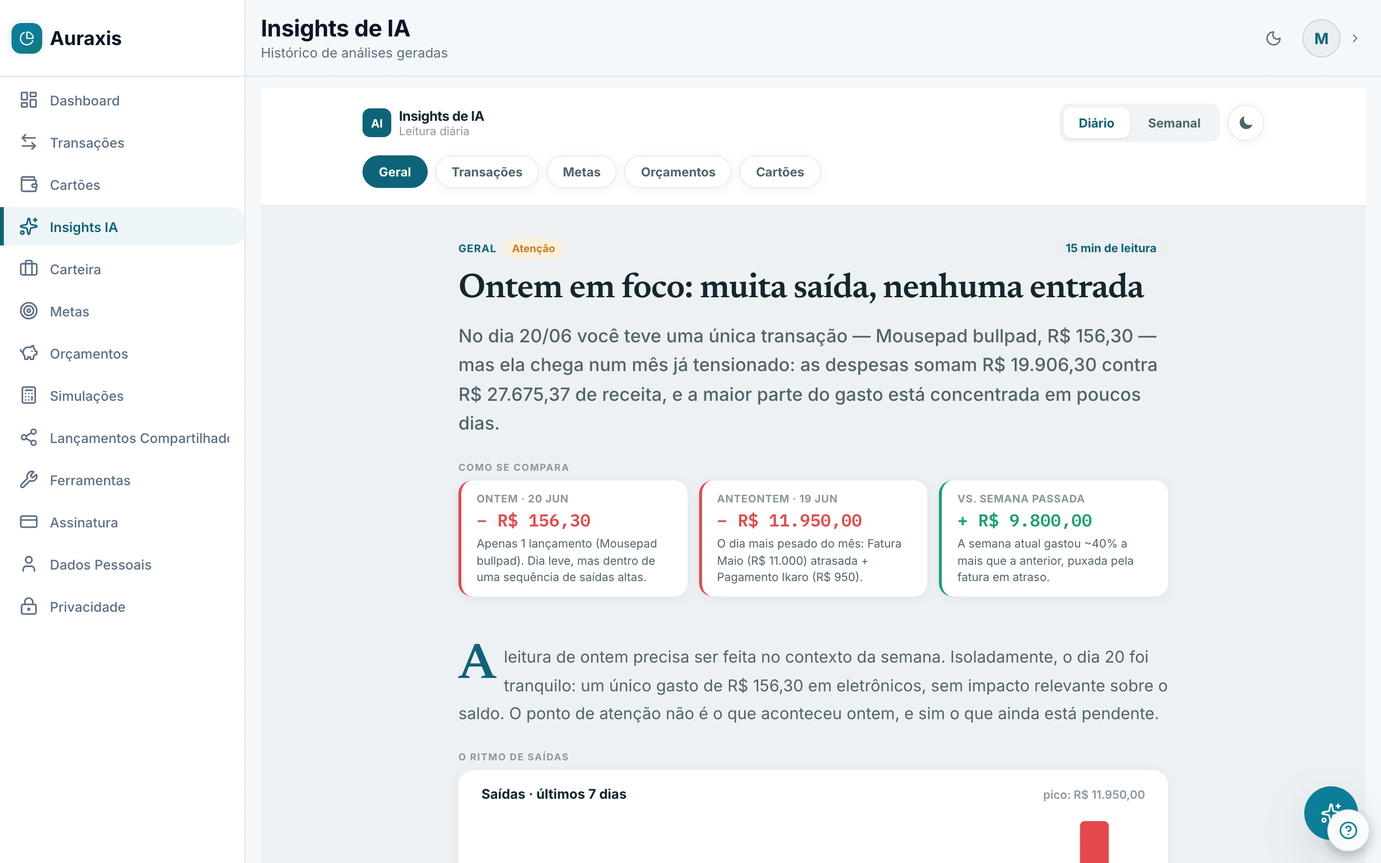
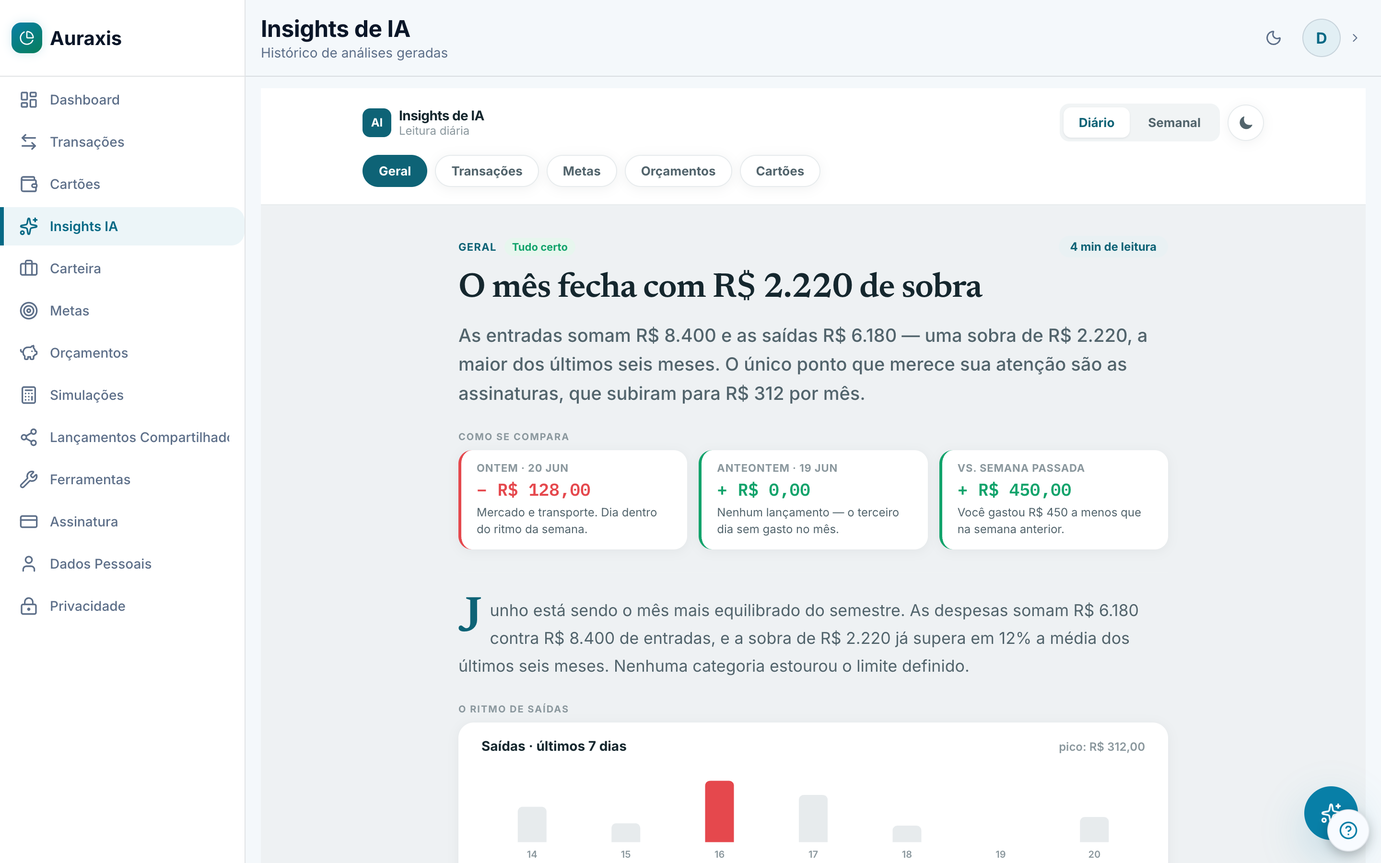
fix(landing): trocar a leitura de IA da página pública por dados fictícios
O screenshot de Insights na landing era print da conta pessoal do PO, e o
mock que alimenta a tela — versionado num repositório PÚBLICO — carregava
os mesmos dados: nome de uma pessoa, nome do pet, o salário real
(R$ 27.675,37), uma fatura em atraso de R$ 11.000 e uma marca de terceiro.

Reescreve o FLUIDA_MOCK_SOURCE com uma persona demo (salário de R$ 8.400,
mês fechando no azul, assinaturas como ponto de atenção) e regenera
insights-light.png a partir da tela real, mesmo enquadramento e mesmas
dimensões (2880x1800, 1440x900 @2x).

De quebra a imagem passa a vender melhor: a leitura sai de "Atenção /
muita saída, nenhuma entrada" para "Tudo certo / o mês fecha com R$ 2.220
de sobra", que é o que a única imagem da IA na página deveria mostrar.

Varredura confirma que não sobrou dado pessoal em app/ nem public/:
Ikaro, Caramelo, "Salário gringo", Mousepad/bullpad, "Fatura Maio",
27.675 e 19.906 → zero ocorrências. dashboard-light, goals-light e og
já usavam dados demo.

Closes #1188

diff --git a/app/features/ai-insights/fluida/model/insight-fluida-mock.ts b/app/features/ai-insights/fluida/model/insight-fluida-mock.ts
@@ -1,7 +1,7 @@
 import { formatFluidaCurrency, type FluidaInsightSource } from "./insight-fluida";
 
 /**
- * Mock source for the Fluida reading, content-anchored to June/2026 data.
+ * Mock source for the Fluida reading.
  *
  * Shape mirrors the additive `/ai/insights` response (`paragraphs` / `retro` /
  * `series` / `highlights`) and the mobile `InsightFluidaVM`. It exists only so
@@ -9,6 +9,14 @@ import { formatFluidaCurrency, type FluidaInsightSource } from "./insight-fluida
  * (auraxis-api PR #1502) is not yet deployed. Once the DTO ships, a mapper in
  * `api/` produces the same {@link FluidaInsightSource} from the real payload and
  * this constant is dropped.
+ *
+ * The content is a **fictional demo persona** — a single salary of R$ 8.400, a
+ * month that closes in the black, and one actionable finding (subscriptions
+ * creeping up). It must stay that way: this mock also feeds the product
+ * screenshots on the public landing, and a previous version carried real
+ * account data — a person's name, a pet's name, an actual salary and an
+ * overdue invoice — into a public repository and onto auraxis.com.br (#1188).
+ * Never paste a real reading here.
  */
 export const FLUIDA_MOCK_SOURCE: FluidaInsightSource = {
   meta: {
@@ -20,96 +28,94 @@ export const FLUIDA_MOCK_SOURCE: FluidaInsightSource = {
   },
   series: {
     daily: {
-      values: [1200, 0, 250, 0, 2650, 0, 11950],
+      values: [180, 96, 312, 240, 84, 0, 128],
       labels: ["14", "15", "16", "17", "18", "19", "20"],
     },
     weekly: {
-      values: [4200, 980, 3100, 1400, 9800, 13650],
+      values: [1580, 1210, 1740, 1320, 1490, 1040],
       labels: ["S-5", "S-4", "S-3", "S-2", "S-1", "Atual"],
     },
   },
   general: {
     daily: {
-      severity: "atencao",
-      readMin: 15,
-      title: "Ontem em foco: muita saída, nenhuma entrada",
+      severity: "ok",
+      readMin: 4,
+      title: "O mês fecha com R$ 2.220 de sobra",
       summary:
-        "No dia 20/06 você teve uma única transação — Mousepad bullpad, R$ 156,30 — mas ela chega num mês já tensionado: as despesas somam R$ 19.906,30 contra R$ 27.675,37 de receita, e a maior parte do gasto está concentrada em poucos dias.",
+        "As entradas somam R$ 8.400 e as saídas R$ 6.180 — uma sobra de R$ 2.220, a maior dos últimos seis meses. O único ponto que merece sua atenção são as assinaturas, que subiram para R$ 312 por mês.",
       retro: [
         {
           when: "Ontem · 20 jun",
-          value: -156.3,
-          text: "Apenas 1 lançamento (Mousepad bullpad). Dia leve, mas dentro de uma sequência de saídas altas.",
+          value: -128,
+          text: "Mercado e transporte. Dia dentro do ritmo da semana.",
         },
         {
           when: "Anteontem · 19 jun",
-          value: -11950,
-          text: "O dia mais pesado do mês: Fatura Maio (R$ 11.000) atrasada + Pagamento Ikaro (R$ 950).",
+          value: 0,
+          text: "Nenhum lançamento — o terceiro dia sem gasto no mês.",
         },
         {
           when: "vs. semana passada",
-          value: 9800,
-          text: "A semana atual gastou ~40% a mais que a anterior, puxada pela fatura em atraso.",
+          value: 450,
+          text: "Você gastou R$ 450 a menos que na semana anterior.",
         },
       ],
       paragraphs: [
-        "A leitura de ontem precisa ser feita no contexto da semana. Isoladamente, o dia 20 foi tranquilo: um único gasto de R$ 156,30 em eletrônicos, sem impacto relevante sobre o saldo. O ponto de atenção não é o que aconteceu ontem, e sim o que ainda está pendente.",
-        "A \"Fatura Maio\", de R$ 11.000,00, segue marcada como atrasada e responde sozinha por 55% de todas as despesas do mês. Enquanto ela não for quitada, qualquer leitura de saldo positivo é otimista demais — o resultado de R$ 7.769,07 já considera essa saída como ocorrida.",
-        "Do lado das entradas, o mês depende de um único evento: o Salário gringo, de R$ 27.675,37, previsto para 30/06. Até lá, o caixa opera no vermelho corrente em vários dias. Essa dependência de uma entrada única, no fim do mês, é o fator estrutural mais importante a observar.",
+        "Junho está sendo o mês mais equilibrado do semestre. As despesas somam R$ 6.180 contra R$ 8.400 de entradas, e a sobra de R$ 2.220 já supera em 12% a média dos últimos seis meses. Nenhuma categoria estourou o limite definido.",
+        "O gasto se distribuiu bem ao longo dos dias, sem picos: o maior lançamento isolado do mês foi o aluguel, de R$ 2.400, e nenhum outro passou de R$ 400. Essa regularidade é o que torna o fluxo previsível — dá para saber quanto sobra antes do fim do mês.",
+        "O detalhe que vale corrigir está nas assinaturas. São sete serviços ativos que somam R$ 312 por mês, e três deles renovaram no mesmo dia 19. Dois têm cobrança sobreposta — mesmo tipo de serviço, contratos diferentes.",
       ],
       pullStat: {
-        label: "Peso da Fatura Maio",
-        value: "55%",
-        caption: "de todas as despesas do mês",
+        label: "Sobra do mês",
+        value: formatFluidaCurrency(2220),
+        caption: "12% acima da sua média",
       },
       alerts: [
-        { severity: "alta", text: "Fatura Maio (R$ 11.000) em atraso — concentra 55% das despesas." },
-        { severity: "media", text: "Receita do mês depende de um único crédito (30/06)." },
+        { severity: "media", text: "7 assinaturas ativas somam R$ 312/mês — duas se sobrepõem." },
+        { severity: "media", text: "Reserva de emergência cobre 2,3 meses; a meta é 6." },
       ],
       nextStep:
-        "Priorize quitar ou renegociar a Fatura Maio antes do crédito do salário; ela distorce todos os indicadores. Como hábito, distribua os vencimentos ao longo do mês para não concentrar saídas em 1–2 dias.",
+        "Revise as duas assinaturas sobrepostas e direcione a diferença para a Reserva de emergência. São R$ 84 por mês que hoje saem sem contrapartida.",
     },
     weekly: {
-      severity: "alerta",
-      readMin: 30,
-      title: "A semana de 15 a 21: o mês inteiro decidido em dois dias",
+      severity: "ok",
+      readMin: 6,
+      title: "A semana mais barata do mês, e não foi por acaso",
       summary:
-        "Em sete dias, R$ 13.650,00 saíram do caixa sem nenhuma entrada — e dois lançamentos (Fatura Maio e Parcela de financiamento) explicam quase tudo. A conta entrou em estado de alerta não por volume de transações, mas por concentração.",
+        "R$ 1.040 em sete dias, contra R$ 1.490 na semana anterior. A queda veio de mercado e delivery — as duas categorias que você passou a registrar no mesmo dia da compra.",
       retro: [
         {
           when: "Esta semana · 15–21 jun",
-          value: -13650,
-          text: "4 saídas, 0 entradas. Saldo da semana fortemente negativo.",
+          value: -1040,
+          text: "9 lançamentos, nenhum acima de R$ 320.",
         },
         {
           when: "Semana anterior · 8–14 jun",
-          value: -1450,
-          text: "Internet + Visita Pedro. Ritmo de gasto saudável.",
+          value: -1490,
+          text: "Semana do aluguel e das renovações anuais.",
         },
         {
           when: "Tendência (6 semanas)",
-          value: 13650,
-          text: "Clara escalada nas últimas duas semanas, acima da média móvel.",
+          value: -450,
+          text: "Terceira semana consecutiva abaixo da média móvel.",
         },
       ],
       paragraphs: [
-        "A retrospectiva semanal mostra um padrão que não aparece no dia a dia: a conta passa semanas em ritmo controlado e, então, concentra obrigações grandes num intervalo curto. De 15 a 21 de junho, quatro lançamentos somaram R$ 13.650,00, contra R$ 1.450,00 da semana anterior — um salto de mais de 9x.",
-        "Dois itens dominam a semana. A Parcela de financiamento (R$ 2.650, recorrente) é previsível e saudável — entra todo mês. Já a Fatura Maio (R$ 11.000, atrasada) é o evento anômalo: não é recorrente, está em atraso e desequilibra a comparação com qualquer semana típica.",
-        "Sem nenhuma receita na semana, o saldo semanal ficou em -R$ 13.650,00. Isso não significa que o mês fechará negativo — o salário de 30/06 reverte o número — mas evidencia uma fragilidade de fluxo: a conta vive de um único crédito mensal e precisa atravessar três semanas de saídas antes dele.",
-        "Olhando as últimas seis semanas, a média móvel de saídas estava perto de R$ 4.000. As duas últimas romperam esse teto com folga. Mesmo descontando a fatura atrasada como evento único, a tendência recente é de aceleração de gastos fixos.",
+        "Sete dias, R$ 1.040, nenhum lançamento acima de R$ 320. Essa é a semana mais barata de junho, e a terceira consecutiva abaixo da média móvel de R$ 1.397 — o que caracteriza tendência, não sorte.",
+        "A diferença veio de duas categorias. Mercado caiu de R$ 420 para R$ 268 e delivery, de R$ 210 para R$ 96. Ambas são justamente as que você passou a registrar no mesmo dia da compra a partir de 8 de junho: quando o gasto fica visível na hora, ele encolhe sozinho.",
+        "Moradia e transporte ficaram estáveis, como esperado de despesa fixa. Não há nada em atraso e nenhuma categoria passou de 80% do limite — o orçamento está sendo cumprido sem esforço aparente.",
+        "Se o ritmo desta semana se mantiver, julho fecha com sobra perto de R$ 2.600, o suficiente para levar a Reserva de emergência de 2,3 para 2,7 meses de despesas cobertas.",
       ],
       pullStat: {
-        label: "Saldo da semana",
-        value: formatFluidaCurrency(-13650),
-        caption: "sem nenhuma entrada registrada",
+        label: "Saídas da semana",
+        value: formatFluidaCurrency(1040),
+        caption: "R$ 450 abaixo da semana anterior",
       },
       alerts: [
-        { severity: "alta", text: "Saldo semanal -R$ 13.650,00, sem nenhuma entrada." },
-        { severity: "alta", text: "Fatura Maio em atraso há mais de 20 dias." },
-        { severity: "media", text: "Saídas das 2 últimas semanas acima da média móvel." },
+        { severity: "media", text: "Assinaturas renovam dia 19 — R$ 312 concentrados num dia só." },
       ],
       nextStep:
-        "Construa um colchão que cubra ao menos 3 semanas de despesas fixas, para deixar de depender do timing do salário. No curto prazo, trate a Fatura Maio como prioridade absoluta e evite novas parcelas até o crédito de 30/06.",
+        "Mantenha o registro no mesmo dia da compra: foi o que derrubou mercado e delivery em três semanas. Vale replicar o hábito para lazer, a categoria que ainda oscila.",
     },
   },
   themes: {
@@ -119,39 +125,39 @@ export const FLUIDA_MOCK_SOURCE: FluidaInsightSource = {
       daily: {
         severity: "ok",
         readMin: 3,
-        title: "Dia leve, mas dentro de um mês concentrado",
+        title: "Nove lançamentos, nenhuma surpresa",
         summary:
-          "Ontem houve só Mousepad bullpad (R$ 156,30, Eletrônicos). No mês, 9 despesas e 1 receita; 70% do valor está em 2 lançamentos.",
+          "Ontem entraram mercado (R$ 84,30) e transporte (R$ 43,70). No mês são 24 despesas e 2 receitas, com 61% do valor concentrado em moradia e mercado.",
         highlights: [
-          { label: "Maior gasto do mês", value: formatFluidaCurrency(11000), caption: "Fatura Maio · Cartão" },
-          { label: "Único crédito", value: formatFluidaCurrency(27675.37), caption: "Salário gringo · 30/06" },
-          { label: "Gasto de ontem", value: formatFluidaCurrency(156.3), caption: "Eletrônicos" },
+          { label: "Maior gasto do mês", value: formatFluidaCurrency(2400), caption: "Aluguel · dia 5" },
+          { label: "Entradas do mês", value: formatFluidaCurrency(8400), caption: "Salário · dia 5" },
+          { label: "Gasto de ontem", value: formatFluidaCurrency(128), caption: "Mercado e transporte" },
         ],
         paragraphs: [
-          "O lançamento de ontem é pequeno e pontual — um mousepad em Eletrônicos. Não altera categorias nem orçamento de forma material; entra como consumo discricionário isolado.",
-          "O retrato do mês, porém, é de concentração: das nove despesas, Fatura Maio (R$ 11.000) e Parcela de financiamento (R$ 2.650) somam 69% do total. As outras sete dividem o restante em valores pequenos a médios.",
+          "Os dois lançamentos de ontem são rotineiros e cabem no ritmo da semana. Nenhum deles muda a leitura de categorias nem se aproxima de algum limite.",
+          "No mês, 61% do valor está em moradia (R$ 2.400) e mercado (R$ 1.360). As outras 22 despesas se dividem em valores pequenos, o que mantém a previsibilidade alta e facilita projetar o fechamento.",
         ],
         nextStep:
-          "Categorize a Fatura Maio (hoje em \"Cartão\") para que ela não distorça a leitura de despesas correntes. Vale separar o que é dívida pontual do que é gasto do mês.",
+          "Todos os lançamentos do mês estão categorizados — é o que permite a leitura por área funcionar. Vale manter o hábito de classificar no momento do registro.",
       },
       weekly: {
-        severity: "atencao",
+        severity: "ok",
         readMin: 5,
-        title: "Onde o dinheiro foi: 4 saídas, nenhuma entrada",
+        title: "Onde o dinheiro foi: mercado, transporte e assinaturas",
         summary:
-          "Na semana, R$ 13.650,00 distribuídos entre Cartão (R$ 11.000), Financiamento (R$ 2.650) e itens menores. Categorias fixas dominam; nenhuma receita registrada.",
+          "R$ 1.040 na semana, distribuídos entre mercado (R$ 268), assinaturas (R$ 312), transporte (R$ 164) e lazer (R$ 296). Nenhum lançamento atrasado.",
         highlights: [
-          { label: "Saídas da semana", value: formatFluidaCurrency(13650), caption: "4 lançamentos" },
-          { label: "Em despesas fixas", value: "81%", caption: "Financiamento + recorrentes" },
-          { label: "Atrasados", value: "3 itens", caption: "Fatura, Condomínio, Banho" },
+          { label: "Saídas da semana", value: formatFluidaCurrency(1040), caption: "9 lançamentos" },
+          { label: "Em despesas fixas", value: "30%", caption: "assinaturas e transporte" },
+          { label: "Atrasados", value: "0 itens", caption: "tudo em dia" },
         ],
         paragraphs: [
-          "A semana é quase inteiramente composta por compromissos fixos e dívidas. A Fatura Maio responde por 81% do valor; a Parcela de financiamento, recorrente, por mais 19%. Não há gasto variável relevante — sinal de que o problema é de calendário e dívida, não de consumo impulsivo.",
-          "Três itens aparecem como atrasados no mês (Fatura Maio, Condomínio, Banho do Caramelo), somando R$ 12.700. Mesmo os dois menores, juntos, indicam que vencimentos do início do mês passaram sem baixa — vale checar se foram pagos fora do app.",
-          "Pelas descrições, parte das saídas tem natureza combinada e previsível (\"Pagamento Ikaro — 3x na semana\", \"Banho do Caramelo — 2 banhos ao mês\"). Transformar esses combinados em recorrências ajuda a antecipá-los no fluxo.",
+          "A semana tem uma composição saudável: 70% do valor em gasto variável que você controla (mercado, lazer) e 30% em fixo. Não há nada vencido, e nenhuma categoria passou do limite.",
+          "As assinaturas concentram R$ 312 num único dia, o 19. Três serviços renovaram juntos, o que cria um pico artificial na leitura diária e some no acumulado da semana.",
+          "Lazer foi a única categoria acima da média (R$ 296 contra R$ 210). Foi um único programa de fim de semana, não um padrão novo — vale acompanhar sem agir por enquanto.",
         ],
         nextStep:
-          "Revise os 3 itens em atraso e dê baixa no que já foi pago. Depois, converta os gastos \"combinados\" recorrentes (Ikaro, Caramelo) em lançamentos automáticos para o mês prever melhor o caixa.",
+          "Distribua as renovações de assinatura ao longo do mês. Concentrar R$ 312 num dia só atrapalha a leitura de fluxo e cria falsos picos.",
       },
     },
     goals: {
@@ -160,39 +166,39 @@ export const FLUIDA_MOCK_SOURCE: FluidaInsightSource = {
       daily: {
         severity: "ok",
         readMin: 3,
-        title: "Metas paradas aguardando o crédito do mês",
+        title: "Reserva avança pelo quarto mês seguido",
         summary:
-          "Nenhum aporte ontem. \"Viagem dos sonhos\" segue em 56% (R$ 8.450 / R$ 15.000) e a Reserva de emergência em 67%.",
+          "O aporte automático de R$ 600 entrou dia 5. A Reserva de emergência chegou a 72% (R$ 14.400 de R$ 20.000) e a Viagem, a 45%.",
         highlights: [
-          { label: "Viagem dos sonhos", value: "56%", caption: "R$ 8.450 / R$ 15.000" },
-          { label: "Reserva de emergência", value: "67%", caption: "R$ 13.423 / R$ 20.000" },
-          { label: "Aporte de ontem", value: formatFluidaCurrency(0), caption: "sem movimento" },
+          { label: "Reserva de emergência", value: "72%", caption: "R$ 14.400 / R$ 20.000" },
+          { label: "Viagem", value: "45%", caption: "R$ 5.400 / R$ 12.000" },
+          { label: "Aporte do mês", value: formatFluidaCurrency(600), caption: "automático · dia 5" },
         ],
         paragraphs: [
-          "As metas não tiveram movimentação ontem — comportamento esperado num mês em que o caixa está comprometido com a fatura em atraso. O progresso permanece o mesmo do dia anterior.",
-          "A Reserva de emergência, em 67%, é o ponto positivo: cobre boa parte de um mês de despesas. Avançá-la antes da Viagem reduz a dependência do salário único que aparece na leitura geral.",
+          "O aporte automático continua entrando sem depender de decisão mensal — é o quarto mês seguido de avanço na Reserva, que passou de 58% para 72% no período.",
+          "No ritmo atual, a Reserva chega aos R$ 20.000 em setembro. A Viagem, com aporte menor, alcança a meta em janeiro — dentro do prazo que você definiu.",
         ],
         nextStep:
-          "Assim que o salário entrar (30/06), direcione um aporte automático pequeno e fixo para a Reserva antes de qualquer gasto discricionário — ela é a meta que mais reduz seu risco hoje.",
+          "Com a sobra de R$ 2.220 deste mês, um aporte extra de R$ 400 na Reserva antecipa a conclusão para agosto sem apertar o orçamento.",
       },
       weekly: {
-        severity: "atencao",
-        readMin: 5,
-        title: "Sem aportes na semana — ritmo abaixo do necessário",
+        severity: "ok",
+        readMin: 4,
+        title: "Metas no prazo, sem esforço adicional",
         summary:
-          "Semana sem contribuições para metas. No ritmo atual, a Viagem dos sonhos atrasa frente ao prazo; a Reserva avança devagar.",
+          "As duas metas avançaram no mês via aporte automático. Nenhuma delas depende de decisão semanal, o que explica a consistência.",
         highlights: [
-          { label: "Aportes na semana", value: formatFluidaCurrency(0), caption: "0 de 2 metas" },
-          { label: "Falta p/ Viagem", value: formatFluidaCurrency(6550), caption: "44% restante" },
-          { label: "Falta p/ Reserva", value: formatFluidaCurrency(6577), caption: "33% restante" },
+          { label: "Aportes no mês", value: formatFluidaCurrency(600), caption: "2 de 2 metas" },
+          { label: "Falta p/ Reserva", value: formatFluidaCurrency(5600), caption: "28% restante" },
+          { label: "Falta p/ Viagem", value: formatFluidaCurrency(6600), caption: "55% restante" },
         ],
         paragraphs: [
-          "A semana não registrou aportes — coerente com o aperto de caixa, mas que cobra um custo: as duas metas ficaram estacionadas enquanto o tempo até os prazos diminui. Metas sem aporte semanal tendem a derrapar silenciosamente.",
-          "A Viagem dos sonhos precisa de mais R$ 6.550. Mantido um aporte mensal modesto, o prazo escorrega alguns meses. A Reserva, mais perto do alvo (faltam R$ 6.577 para R$ 20.000), responde melhor a aportes pequenos e constantes.",
-          "A recomendação estrutural da leitura geral se aplica aqui: enquanto a conta depender de um único crédito mensal, as metas competem diretamente com as dívidas pelo mesmo dinheiro — e perdem.",
+          "Metas com aporte automático avançam mesmo em meses agitados, e é exatamente o que se vê aqui: nenhuma semana sem progresso desde março.",
+          "A Reserva cobre hoje 2,3 meses de despesas. O alvo saudável para o seu padrão de gasto é 6 meses — o que significa R$ 37.000, acima da meta atual de R$ 20.000.",
+          "Vale revisar o alvo da Reserva depois que ela fechar. Uma meta batida que ficou pequena dá falsa sensação de segurança.",
         ],
         nextStep:
-          "Defina aportes automáticos por porcentagem do salário (ex.: 5% Reserva, 5% Viagem) que saem no dia do crédito. Automatizar tira a meta da disputa mês a mês e protege o progresso.",
+          "Ao concluir a Reserva em setembro, redefina o alvo para 6 meses de despesa (R$ 37.000) e mantenha o mesmo aporte automático.",
       },
     },
     budgets: {
@@ -201,80 +207,80 @@ export const FLUIDA_MOCK_SOURCE: FluidaInsightSource = {
       daily: {
         severity: "ok",
         readMin: 3,
-        title: "Eletrônicos consumiu um pouco do limite livre",
+        title: "Nenhuma categoria passou de 80% do limite",
         summary:
-          "O gasto de ontem (R$ 156,30) cai em Eletrônicos, fora dos orçamentos fixos. Categorias fixas seguem dentro do previsto.",
+          "Faltando dez dias para o fim do mês, mercado está em 68% do teto e lazer em 74%. Moradia, fixa, já consumiu 100% como esperado.",
         highlights: [
-          { label: "Despesa fixa", value: "50% do total", caption: formatFluidaCurrency(15550) },
-          { label: "Sem categoria", value: formatFluidaCurrency(15325.08), caption: "a classificar" },
-          { label: "Livre usado ontem", value: formatFluidaCurrency(156.3), caption: "Eletrônicos" },
+          { label: "Mercado", value: "68%", caption: "R$ 1.360 de R$ 2.000" },
+          { label: "Lazer", value: "74%", caption: "R$ 592 de R$ 800" },
+          { label: "Sem categoria", value: formatFluidaCurrency(0), caption: "tudo classificado" },
         ],
         paragraphs: [
-          "O lançamento de ontem é discricionário e pequeno, sem estourar nenhum teto. O alerta de orçamento não está no consumo do dia, e sim na qualidade da classificação: quase metade das saídas do mês está como \"Sem categoria\".",
-          "Com tanto valor não classificado, qualquer orçamento por categoria fica cego. Antes de apertar limites, o passo mais útil é categorizar — sobretudo a Fatura Maio, que infla \"Cartão/Sem categoria\".",
+          "O orçamento está sendo cumprido com folga em todas as categorias variáveis. Mercado, historicamente a mais difícil, está em 68% com dez dias pela frente — o ritmo atual leva a fechar em torno de R$ 1.800.",
+          "Nenhum lançamento ficou sem categoria neste mês, o que é o que permite os limites significarem alguma coisa. Orçamento por área só funciona quando cada real tem destino nomeado.",
         ],
         nextStep:
-          "Classifique os lançamentos sem categoria do mês (R$ 15.325). Só depois os limites por categoria passam a refletir a realidade e os alertas ficam confiáveis.",
+          "Lazer é a categoria com menos margem (74%). Se houver programa no fim de semana, vale antecipar a decisão de remanejar R$ 100 de mercado, que está sobrando.",
       },
       weekly: {
-        severity: "atencao",
-        readMin: 5,
-        title: "Metade do mês sem categoria — orçamento às cegas",
+        severity: "ok",
+        readMin: 4,
+        title: "Três semanas seguidas dentro do teto",
         summary:
-          "Despesa fixa concentra 50% (R$ 15.550). \"Sem categoria\" tem outros R$ 15.325, o que impede orçamentos confiáveis por área.",
+          "Todas as categorias variáveis terminaram a semana abaixo do limite proporcional. Mercado e delivery puxaram a economia.",
         highlights: [
-          { label: "Despesa fixa", value: formatFluidaCurrency(15550), caption: "50% do total" },
-          { label: "Sem categoria", value: formatFluidaCurrency(15325.08), caption: "49% do total" },
-          { label: "Demais", value: formatFluidaCurrency(175), caption: "Cartão" },
+          { label: "Dentro do limite", value: "6 de 6", caption: "categorias variáveis" },
+          { label: "Maior folga", value: formatFluidaCurrency(640), caption: "mercado" },
+          { label: "Menor folga", value: formatFluidaCurrency(208), caption: "lazer" },
         ],
         paragraphs: [
-          "A foto da semana confirma o diagnóstico do dia: o orçamento está dominado por dois blocos enormes — Despesa fixa (R$ 15.550) e Sem categoria (R$ 15.325). Juntos, são 99% das saídas, o que esvazia qualquer planejamento por categoria.",
-          "O bloco \"Sem categoria\" é grande porque a Fatura Maio entra nele. Classificar essa fatura e distribuí-la entre as áreas que a originaram (moradia, lazer, assinaturas) revelaria o consumo real por trás do número.",
-          "Despesa fixa em 50% é alto, mas não anômalo para quem tem financiamento e contas recorrentes. O problema é não enxergar a outra metade. Orçamento só vira ferramenta quando cada real tem um destino nomeado.",
+          "As seis categorias variáveis fecharam a semana dentro do limite proporcional. É a terceira semana consecutiva assim, o que sugere que os tetos definidos estão calibrados para a sua realidade — nem apertados demais, nem frouxos.",
+          "Mercado acumula a maior folga (R$ 640). Se o padrão se repetir, o teto pode ser reduzido em R$ 200 e a diferença ir para a Reserva, sem mudança de comportamento.",
+          "Lazer é a categoria com menor folga e a mais volátil do mês. Não é problema — é a natureza da categoria —, mas é a que mais se beneficia de acompanhamento semanal.",
         ],
         nextStep:
-          "Crie a regra: nenhuma transação fica sem categoria por mais de 48h. Comece pela Fatura Maio, quebrando-a nas categorias de origem — o orçamento por área passa a fazer sentido na hora.",
+          "Reduza o teto de mercado de R$ 2.000 para R$ 1.800 e realoque a diferença para a Reserva. O histórico das últimas seis semanas sustenta o corte.",
       },
     },
     credit_cards: {
       label: "Cartões",
       color: "#9B5DE5",
       daily: {
-        severity: "atencao",
+        severity: "ok",
         readMin: 3,
-        title: "A fatura em atraso domina a leitura de cartão",
+        title: "Fatura fechando 18% abaixo do mês passado",
         summary:
-          "Nenhuma compra no crédito ontem. O destaque é a Fatura Maio (R$ 11.000) ainda em aberto — pressão direta sobre limite e juros.",
+          "A fatura em aberto está em R$ 1.840, contra R$ 2.240 no mesmo ponto do mês anterior. O limite usado é de 12%, e não há parcelamento ativo.",
         highlights: [
-          { label: "Fatura em atraso", value: formatFluidaCurrency(11000), caption: "Maio · Inter" },
-          { label: "Limite usado (Inter)", value: "44%", caption: "R$ 11.000 / R$ 25.000" },
-          { label: "Compras ontem", value: formatFluidaCurrency(0), caption: "sem uso do crédito" },
+          { label: "Fatura em aberto", value: formatFluidaCurrency(1840), caption: "fecha dia 28" },
+          { label: "Limite usado", value: "12%", caption: "R$ 1.840 / R$ 15.000" },
+          { label: "Compras ontem", value: formatFluidaCurrency(84.3), caption: "mercado" },
         ],
         paragraphs: [
-          "Não houve uso de cartão ontem, o que é positivo. A leitura de cartões hoje gira inteiramente em torno de uma fatura vencida: a de maio, R$ 11.000, que mantém 44% do limite do Inter ocupado e tende a gerar encargos a cada dia de atraso.",
-          "Enquanto essa fatura não baixa, o cartão opera com folga de limite reduzida e custo crescente. É o item de maior alavancagem negativa da conta inteira neste momento.",
+          "A fatura que fecha dia 28 está em R$ 1.840 — 18% abaixo do mesmo ponto do mês passado. O uso de limite, em 12%, mantém folga confortável para qualquer imprevisto.",
+          "Não há compras parceladas em aberto, o que significa que a fatura do mês que vem começa do zero. É a situação mais saudável possível para o crédito: ele funciona como meio de pagamento, não como dívida.",
         ],
         nextStep:
-          "Quite ou parcele a Fatura Maio com a IA antes do próximo fechamento. Cada dia de atraso converte dívida barata em cara — é o melhor \"retorno\" disponível hoje.",
+          "Nada a corrigir aqui. Vale manter o débito automático da fatura para eliminar o risco de esquecimento no vencimento.",
       },
       weekly: {
-        severity: "alerta",
-        readMin: 5,
-        title: "Cartão: dívida parada custando dinheiro",
+        severity: "ok",
+        readMin: 4,
+        title: "Cartão usado como meio de pagamento, não como crédito",
         summary:
-          "Na semana, o cartão não foi usado para novas compras, mas a Fatura Maio (R$ 11.000) seguiu em atraso — o maior fator de risco da conta.",
+          "R$ 496 em compras na semana, todas à vista no crédito. Nenhum parcelamento, nenhum juro, fatura integralmente coberta pela sobra do mês.",
         highlights: [
-          { label: "Fatura Maio", value: formatFluidaCurrency(11000), caption: "em atraso" },
-          { label: "% das despesas do mês", value: "55%", caption: "um único item" },
-          { label: "Novas compras", value: formatFluidaCurrency(0), caption: "na semana" },
+          { label: "Compras na semana", value: formatFluidaCurrency(496), caption: "6 lançamentos" },
+          { label: "Parcelamentos", value: "0", caption: "nenhum ativo" },
+          { label: "Cobertura da fatura", value: "121%", caption: "sobra do mês / fatura" },
         ],
         paragraphs: [
-          "A boa notícia da semana: você não adicionou novas compras ao crédito. A má: a dívida existente não andou. A Fatura Maio, sozinha, é 55% de todas as despesas do mês e mantém o limite do Inter comprometido.",
-          "Sem novas compras, o problema deixa de ser comportamental e passa a ser financeiro puro — é uma questão de liquidez e timing. O salário de 30/06 cobre a fatura com folga; a decisão é se vale esperar (acumulando juros) ou antecipar com a reserva.",
-          "Os outros cartões (Mercado Pago, Nubank, Unique) estão zerados no mês, então não há fragmentação de dívida — o foco é único e claro, o que facilita o plano.",
+          "As seis compras da semana somam R$ 496 e foram todas à vista no crédito. Sem parcelamento, a fatura reflete exatamente o consumo do período — sem arrastar meses anteriores.",
+          "A sobra do mês (R$ 2.220) cobre a fatura em aberto (R$ 1.840) com folga de 21%. Quitá-la integralmente no vencimento não compromete a Reserva nem os aportes das metas.",
+          "Com 12% de limite usado, há espaço de sobra para uma emergência — que é a função do limite disponível, e não um convite a gastar.",
         ],
         nextStep:
-          "Compare o custo de atraso da fatura com o rendimento da Reserva. Se o juro do atraso superar o rendimento (quase sempre supera), antecipe a quitação parcial agora e recomponha a reserva com o salário.",
+          "Continue quitando a fatura integral no vencimento. É o que mantém o crédito barato e o limite disponível para o que ele existe: imprevisto.",
       },
     },
   },
